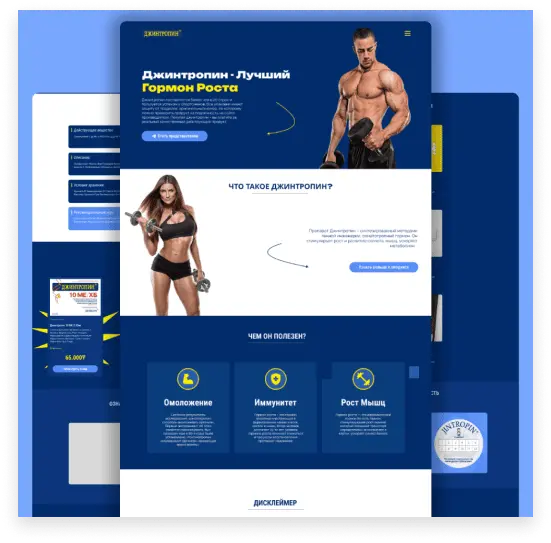
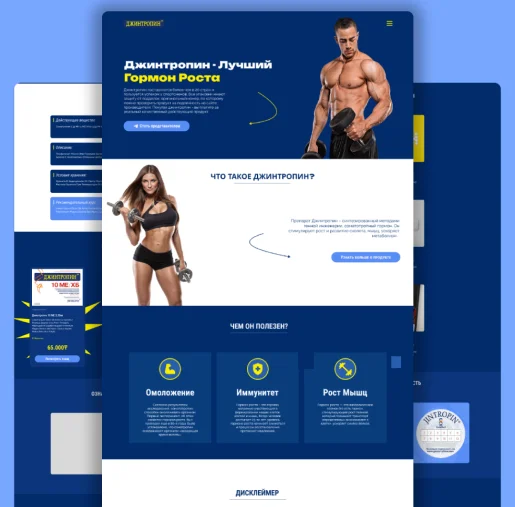
Version 1.4.2

diff --git a/src/shared/lib/hooks/useTabAnimation.ts b/src/shared/lib/hooks/useTabAnimation.ts
@@ -7,7 +7,9 @@ export const useTabAnimations = () => {
   const onHoverAnimation = useCallback(() => {
     if (ref.current) {
       gsap.to(ref.current, {
-        translateX: 1000,
+        duration: 0.3,
+        opacity: 1,
+        ease: "Linear.easeNone",
       });
     }
   }, []);
@@ -15,7 +17,9 @@ export const useTabAnimations = () => {
   const offHoverAnimation = useCallback(() => {
     if (ref.current) {
       gsap.to(ref.current, {
-        translateX: -1000,
+        duration: 0.3,
+        opacity: 0,
+        ease: "Linear.easeNone",
       });
     }
   }, []);

diff --git a/src/shared/ui/portfolioTab/styles.scss b/src/shared/ui/portfolioTab/styles.scss
@@ -5,15 +5,15 @@
 
   &__name-tab {
     position: absolute;
-    padding: clamp(7.5px, 3.5046vw, 30px);
-    transform: translateX(-200px);
-    left: clamp(16px, 7.47648vw, 64px);
-    bottom: clamp(8px, 3.73824vw, 32px);
+    padding: clamp(16px, 7.47648vw, 64px);
+    height: clamp(32px, 14.95296vw, 128px);
+    left: clamp(8px, 3.73824vw, 32px);
+    bottom: 0px;
     transition: 0.3s all;
     @apply bg-custom-orange;
 
     &__text {
-      font-size: clamp(10px, 4.6728vw, 40px);
+      font-size: clamp(12px, 5.60736vw, 48px);
       color: white;
     }
   }

diff --git a/src/shared/ui/selector/index.tsx b/src/shared/ui/selector/index.tsx
@@ -26,7 +26,7 @@ export const Selector = () => {
     control: (base: any) => ({
       ...base,
       border: 0,
-      borderBottom: "2px solid #d3d3d3",
+      borderBottom: "2px solid black",
       boxShadow: "none",
     }),
     option: (provided: any, state: any) => ({

diff --git a/src/widgets/Form/ui/index.tsx b/src/widgets/Form/ui/index.tsx
@@ -40,7 +40,7 @@ export const Form = () => {
             </span>
           )}
         </div>
-        <div className="form-mobile-screen__input mt-12">
+        <div className="form-mobile-screen__input mt-2">
           <Selector />
         </div>
         <Button
